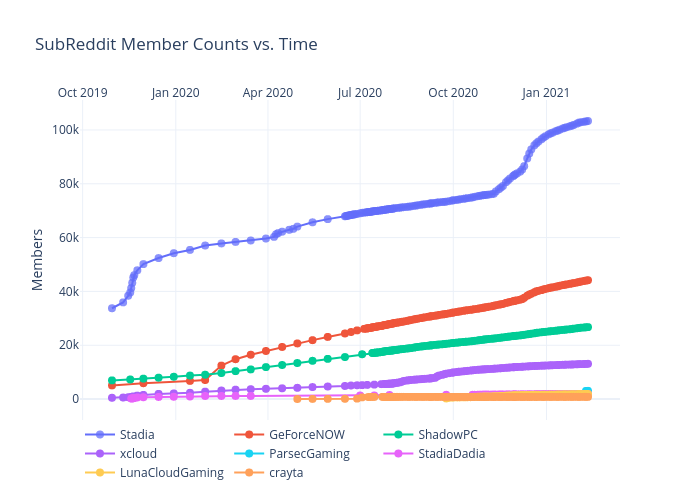
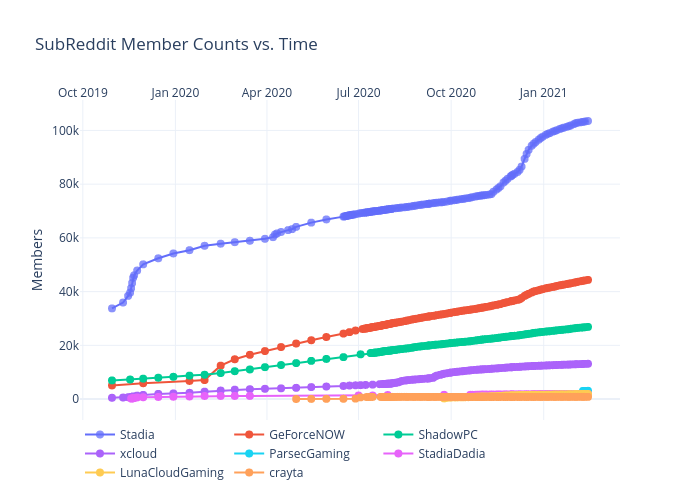
Add files via upload

diff --git a/reddit/figure.js b/reddit/figure.js
@@ -168,7 +168,8 @@ var figure = {
                 "2021-02-04",
                 "2021-02-07",
                 "2021-02-09",
-                "2021-02-11"
+                "2021-02-11",
+                "2021-02-14"
             ],
             "ysrc": "jdeslip:354:352ddd",
             "y": [
@@ -328,7 +329,8 @@ var figure = {
                 "102860",
                 "103030",
                 "103176",
-                "103325"
+                "103325",
+                "103501"
             ],
             "marker": {
                 "size": 8,
@@ -506,7 +508,8 @@ var figure = {
                 "2021-02-04",
                 "2021-02-07",
                 "2021-02-09",
-                "2021-02-11"
+                "2021-02-11",
+                "2021-02-14"
             ],
             "ysrc": "jdeslip:354:765f0d",
             "y": [
@@ -666,7 +669,8 @@ var figure = {
                 "43663",
                 "43882",
                 "44028",
-                "44162"
+                "44162",
+                "44355"
             ],
             "marker": {
                 "size": 8
@@ -843,7 +847,8 @@ var figure = {
                 "2021-02-04",
                 "2021-02-07",
                 "2021-02-09",
-                "2021-02-11"
+                "2021-02-11",
+                "2021-02-14"
             ],
             "ysrc": "jdeslip:354:53bec5",
             "y": [
@@ -1003,7 +1008,8 @@ var figure = {
                 "26513",
                 "26600",
                 "26666",
-                "26741"
+                "26741",
+                "26863"
             ],
             "marker": {
                 "size": 8
@@ -1180,7 +1186,8 @@ var figure = {
                 "2021-02-04",
                 "2021-02-07",
                 "2021-02-09",
-                "2021-02-11"
+                "2021-02-11",
+                "2021-02-14"
             ],
             "ysrc": "jdeslip:354:bbe218",
             "y": [
@@ -1340,7 +1347,8 @@ var figure = {
                 "12997",
                 "13022",
                 "13071",
-                "13105"
+                "13105",
+                "13146"
             ],
             "marker": {
                 "size": 8
@@ -1517,7 +1525,8 @@ var figure = {
                 "2021-02-04",
                 "2021-02-07",
                 "2021-02-09",
-                "2021-02-11"
+                "2021-02-11",
+                "2021-02-14"
             ],
             "ysrc": "jdeslip:354:755898",
             "y": [
@@ -1677,7 +1686,8 @@ var figure = {
                 null,
                 null,
                 "3040",
-                "3060"
+                "3060",
+                "3088"
             ],
             "marker": {
                 "size": 8
@@ -1855,7 +1865,8 @@ var figure = {
                 "2021-02-04",
                 "2021-02-07",
                 "2021-02-09",
-                "2021-02-11"
+                "2021-02-11",
+                "2021-02-14"
             ],
             "ysrc": "jdeslip:354:fc3607",
             "y": [
@@ -2015,7 +2026,8 @@ var figure = {
                 "1911",
                 "1915",
                 "1918",
-                "1917"
+                "1917",
+                "1918"
             ],
             "marker": {
                 "size": 8
@@ -2192,7 +2204,8 @@ var figure = {
                 "2021-02-04",
                 "2021-02-07",
                 "2021-02-09",
-                "2021-02-11"
+                "2021-02-11",
+                "2021-02-14"
             ],
             "ysrc": "jdeslip:354:80eed8",
             "y": [
@@ -2352,7 +2365,8 @@ var figure = {
                 "1858",
                 "1880",
                 "1891",
-                "1901"
+                "1901",
+                "1913"
             ],
             "marker": {
                 "size": 8
@@ -2529,7 +2543,8 @@ var figure = {
                 "2021-02-04",
                 "2021-02-07",
                 "2021-02-09",
-                "2021-02-11"
+                "2021-02-11",
+                "2021-02-14"
             ],
             "ysrc": "jdeslip:354:b0f678",
             "y": [
@@ -2689,6 +2704,7 @@ var figure = {
                 "832",
                 "833",
                 "833",
+                "828",
                 "828"
             ],
             "marker": {
@@ -2707,8 +2723,8 @@ var figure = {
             "side": "top",
             "type": "date",
             "range": [
-                "2019-09-30 22:33:48.6844",
-                "2021-03-12 01:26:11.3156"
+                "2019-09-30 18:06:42.4845",
+                "2021-03-15 05:53:17.5155"
             ],
             "title": {
                 "text": ""
@@ -2718,8 +2734,8 @@ var figure = {
         "yaxis": {
             "type": "linear",
             "range": [
-                -7357.746328822345,
-                110715.74632882235
+                -7370.339475957387,
+                110904.33947595739
             ],
             "title": {
                 "text": "Members"
